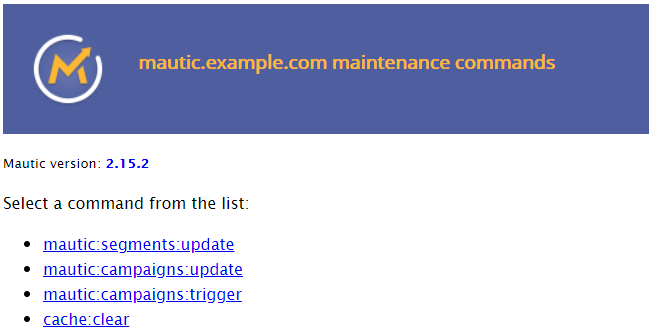
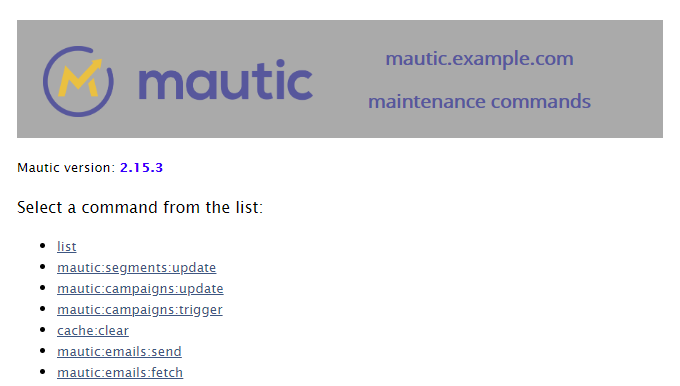
fix: :art: update CSS colours
- docs: :art: replace screenshots

diff --git a/commands.php b/commands.php
@@ -174,37 +174,37 @@ $css='    <style type="text/css">
         .container {
             padding: 0px 20px 0px;
             max-width: 600px;
-            background-color:#4E5E9E;
-            border: 3px solid #4E5E9E;
+            background-color:#AAAAAA;
+            border: 3px solid #AAAAAA;
         }
         .container__logo {
             display: inline-block;
             vertical-align: top;
             margin: 20px 20px 0 0;
             width: 45%;
-            border: 3px solid #4E5E9E;
+            border: 3px solid #AAAAAA;
         }
         .container__heading {
             display: inline-block;
             vertical-align: top;
             text-align: center;
             width: 45%;
-            color:#FFDC00;
-            border: 3px solid #4E5E9E;
+            color:#4E5E9E;
+            border: 3px solid #AAAAAA;
         }
         .container__image {
             display: inline-block;
             vertical-align: top;
             margin: 5px 10px 5px 0;
             width: 13%;
-            border: 3px solid #4E5E9E;
+            border: 3px solid #AAAAAA;
         }
         .container__results {
             display: inline-block;
             vertical-align: top;
             width: 80%;
-            color:#FFDC00;
-            border: 3px solid #4E5E9E;
+            color:#4E5E9E;
+            border: 3px solid #AAAAAA;
         }
         .container__arrow {
             display: inline-block;
@@ -212,8 +212,8 @@ $css='    <style type="text/css">
             padding: 0px 10px 0px 0px;
             text-align:center;
             max-width: 160px;
-            background-color:#4E5E9E;
-            border: 3px solid #4E5E9E;
+            background-color:#AAAAAA;
+            border: 3px solid #AAAAAA;
         }
         @media (max-width: 620px) {
             .container__results {

diff --git a/README.md b/README.md
@@ -171,7 +171,7 @@ The output from the script will be sent to the browser so you can see the result
 
 ```console
 Executing console mautic:campaigns:trigger
- Triggering events for campaign 5
+ Triggering events for campaign 1
  Triggering events for newly added contacts
  2 total events(s) to be processed in batches of 100 contacts
   0/2 [>---------------------------]   0%
@@ -193,11 +193,13 @@ Executing console mautic:campaigns:trigger
 
 ### 💍 Pretty output
 
-<!-- ![pretty-output](https://cdn.jsdelivr.net/gh/virgilwashere/mautic-cron-commands/assets/pretty-output.png "pretty format command output") -->
-![pretty-output](assets/pretty-output.png?raw=true "pretty format command output")
+<!-- ![pretty format campaign trigger](https://cdn.jsdelivr.net/gh/virgilwashere/mautic-cron-commands/assets/pretty-output.png "pretty format command output") -->
+![pretty format campaign trigger](assets/pretty-output.png?raw=true "pretty format campaign trigger")
 
-<!-- <img alt="Mautic logo" align="right" width=64 src="https://cdn.jsdelivr.net/gh/virgilwashere/mautic-cron-commands/assets/mautic_logo.png"> -->
-<img alt="Mautic logo" align="right" width=64 src="assets/mautic_logo.png?raw=true">
+![pretty format migrations status](assets/pretty-output2.png?raw=true "pretty format migrations status")
+
+<!-- <img alt="Mautic logo" align="right" width=128 src="https://cdn.jsdelivr.net/gh/virgilwashere/mautic-cron-commands/assets/mautic_logo.png"> -->
+<img alt="Mautic logo" align="right" width=128 src="assets/mautic_logo.png?raw=true">
 
 ## Mautic documentation 📜
 
